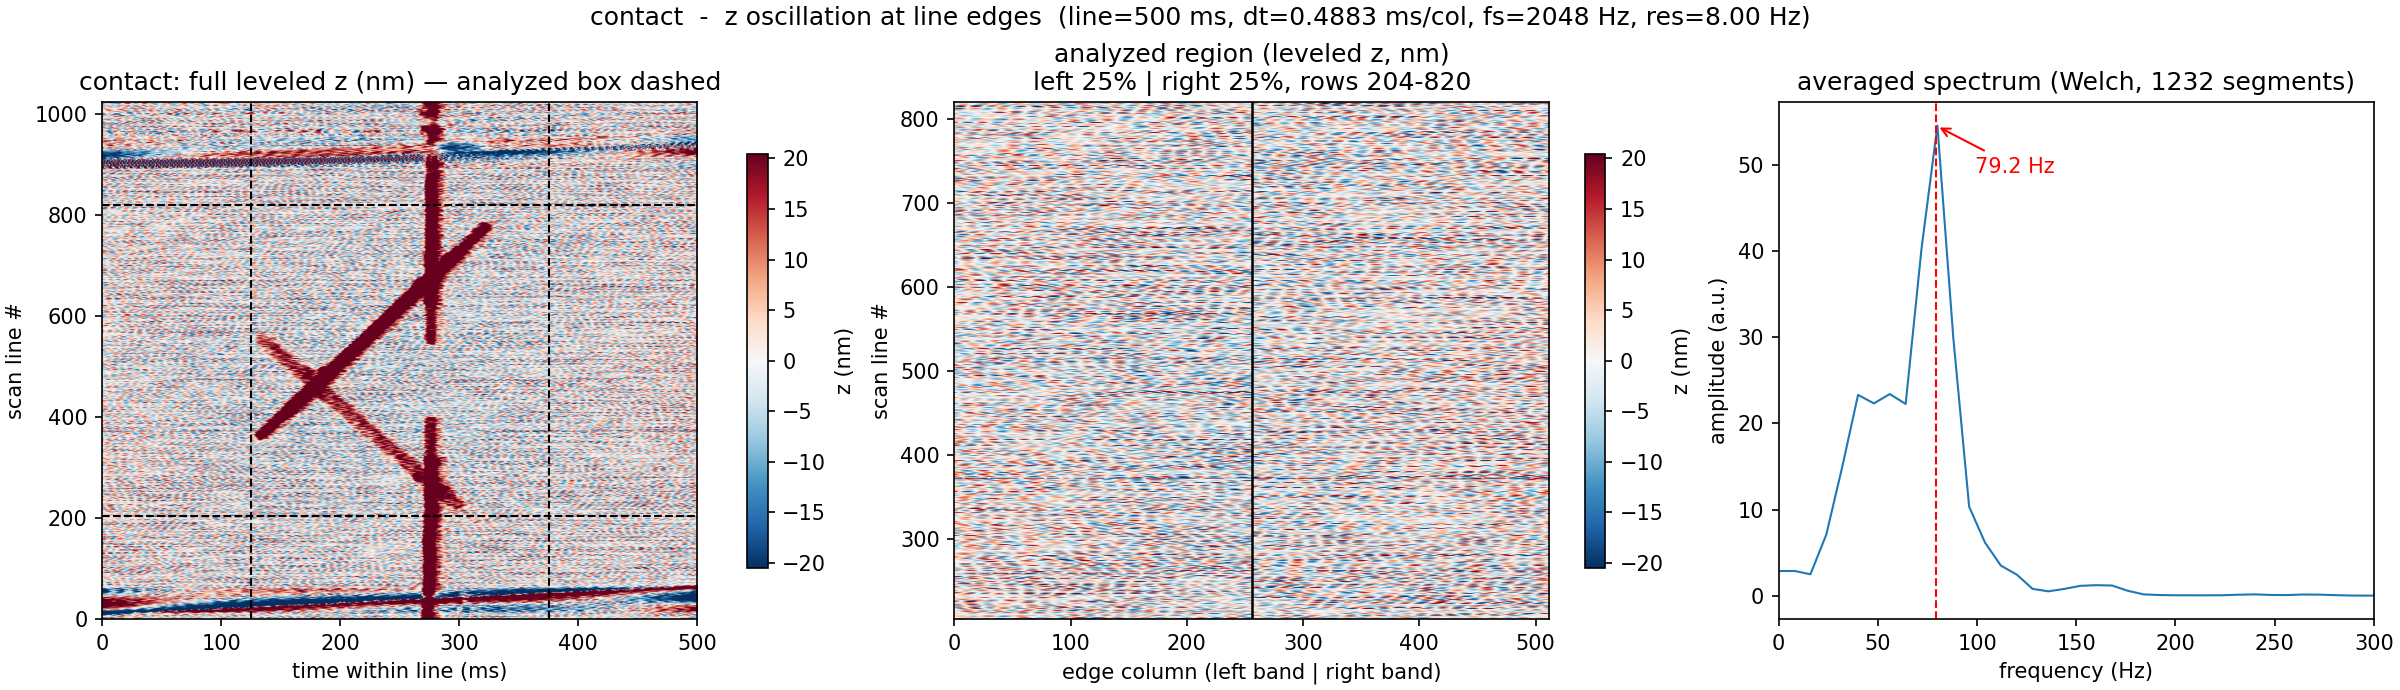
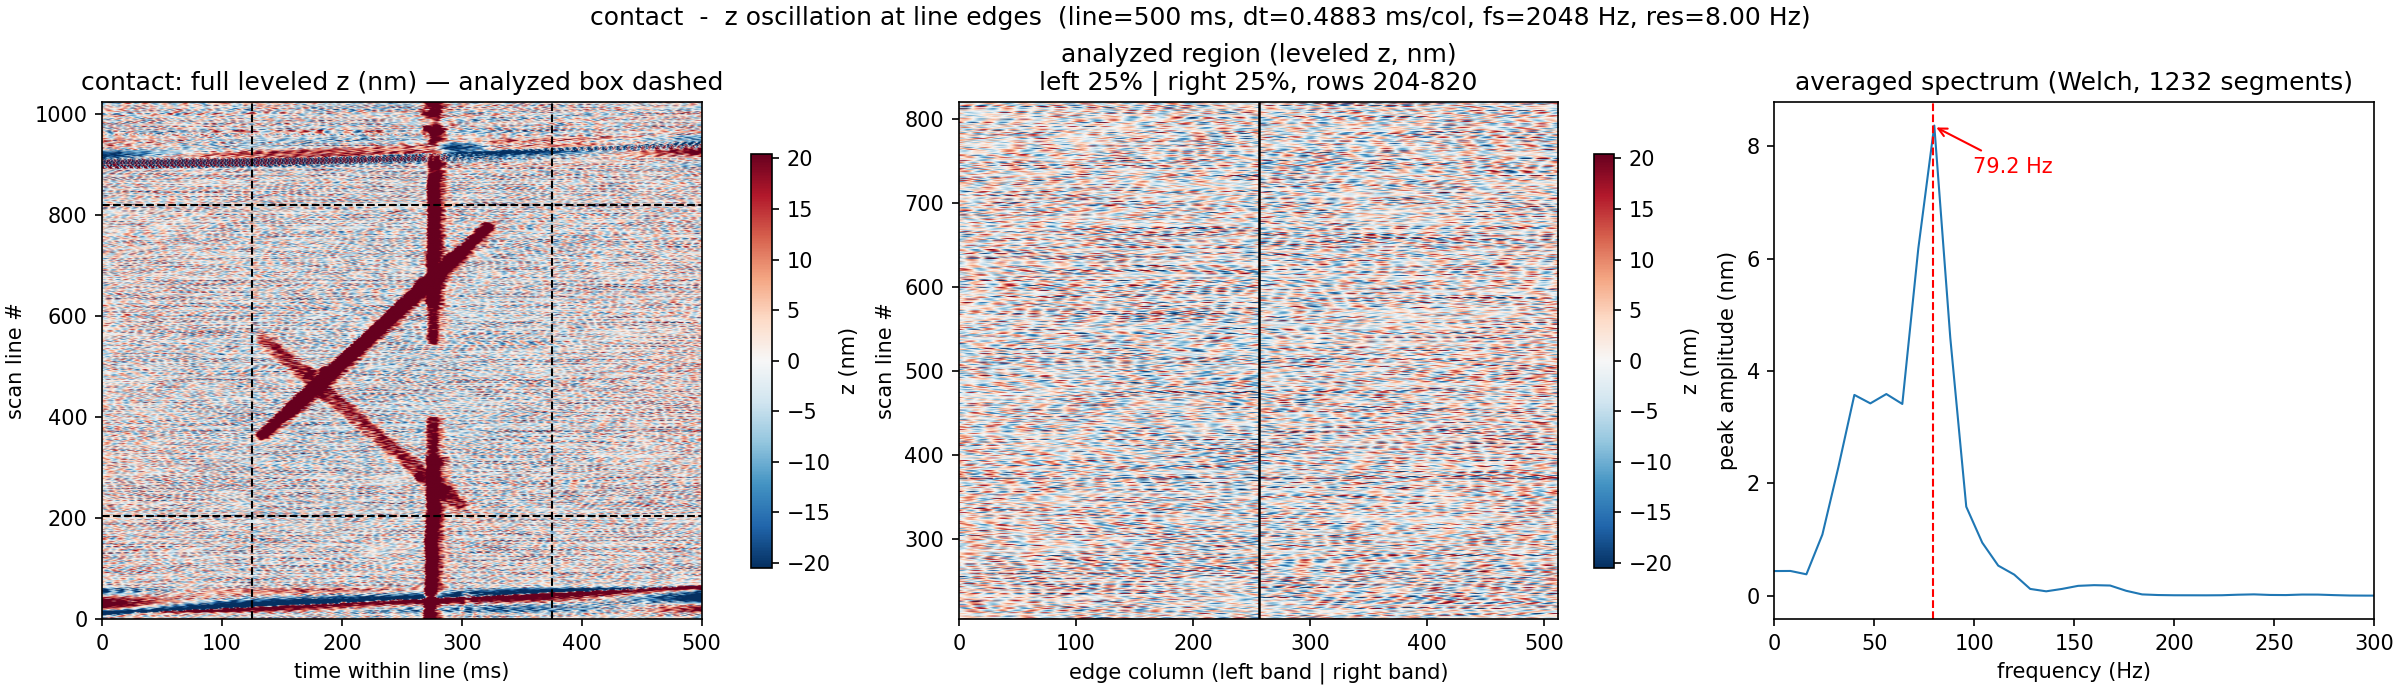
노이즈 진폭 nm

diff --git a/26 고물실 1조/oscillation_fft.py b/26 고물실 1조/oscillation_fft.py
@@ -93,20 +93,25 @@ def analyze(rel):
     right = detrend_rows(disp_right)
     segs = np.vstack([left, right])
 
-    # averaged periodogram (Welch), Hann window
+    # averaged periodogram (Welch), Hann window.
+    # The oscillation phase drifts line to line, so we average POWER across
+    # segments (incoherent average) and take sqrt at the end.
     win = np.hanning(nE)
-    wnorm = np.sum(win ** 2)
+    cg = np.sum(win)                  # coherent gain of the window (for amplitude)
     freq = np.fft.rfftfreq(nE, dt)
     P = np.zeros(len(freq))
     for row in segs:
-        P += (np.abs(np.fft.rfft(row * win)) ** 2) / wnorm
+        P += np.abs(np.fft.rfft(row * win)) ** 2
     P /= len(segs)
 
     # peak (skip DC bin), refined to sub-bin precision
     pk = np.argmax(P[1:]) + 1
     df = freq[1]
     f_peak = parabolic_peak(P, pk) * df
-    amp_spectrum = np.sqrt(P)         # nm-ish amplitude per bin
+    # Coherent-gain amplitude calibration: for a pure tone z=A*cos(2*pi*f0*t)
+    # the windowed rFFT peak is |X|=A/2*sum(win), so 2*|X|/sum(win) = A.
+    # -> peak of amp_spectrum is the physical peak amplitude A (nm) of the tone.
+    amp_spectrum = 2.0 * np.sqrt(P) / cg   # peak amplitude per bin (nm)
 
     return dict(rel=rel, label=label, lev=lev, disp_left=disp_left, disp_right=disp_right,
                 nE=nE, r0=r0, r1=r1, dt=dt, R=R, C=C,
@@ -155,7 +160,7 @@ def plot(res):
     ax[2].axvline(f_peak, color="r", ls="--", lw=1.0)
     ax[2].set_title(f"averaged spectrum (Welch, {res['nseg']} segments)")
     ax[2].set_xlabel("frequency (Hz)")
-    ax[2].set_ylabel("amplitude (a.u.)")
+    ax[2].set_ylabel("peak amplitude (nm)")
     ax[2].set_xlim(0, min(300, freq[-1]))
     ax[2].annotate(f"{f_peak:.1f} Hz",
                    xy=(f_peak, amp[res['pk']]),
